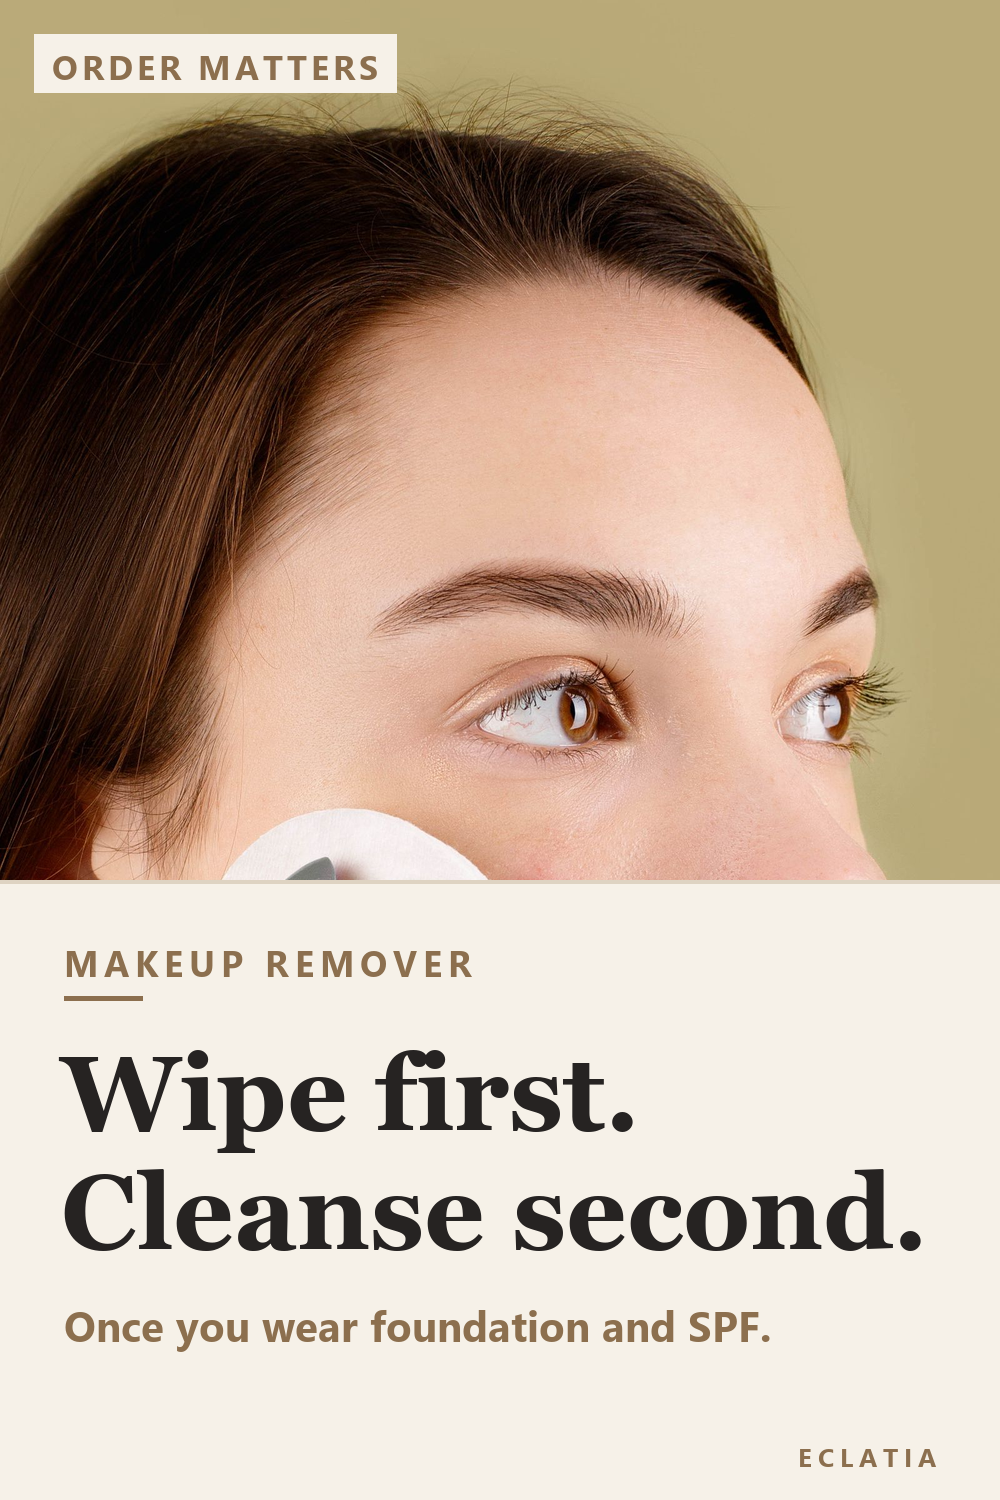
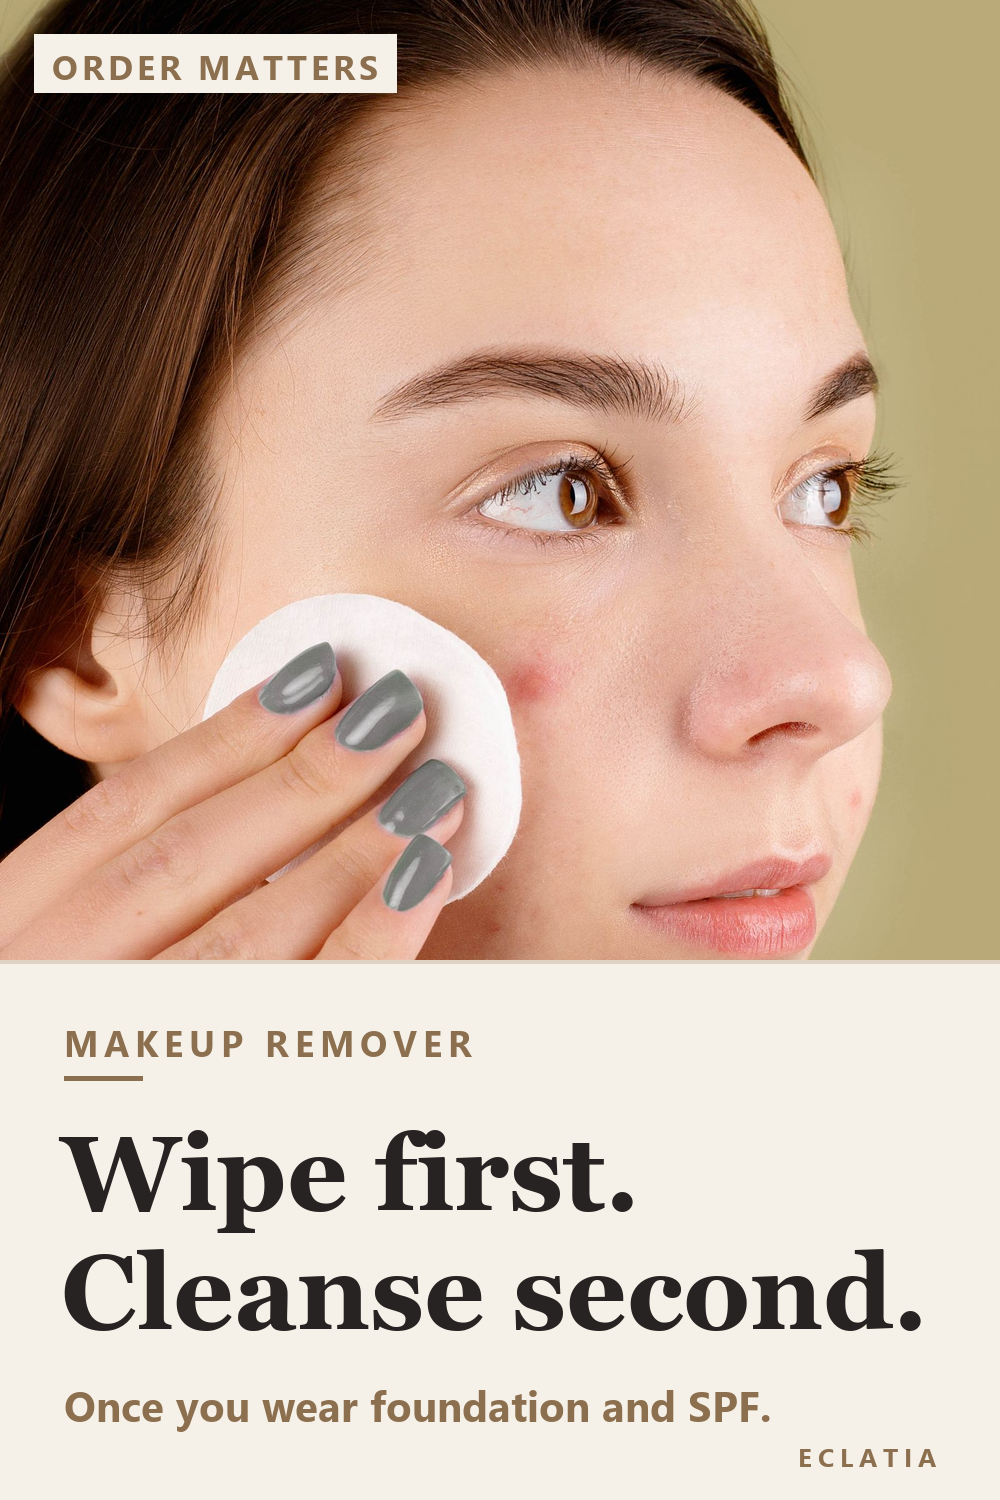
fix(P30): hauteur photo reglable, visage entier visible

diff --git a/scripts/make_pins_editorial.py b/scripts/make_pins_editorial.py
@@ -68,13 +68,14 @@ def signature(d, fill):
 
 def compose(pin):
     t = THEMES[pin["theme"]]
+    ph = pin.get("photo_h", PHOTO_H)
     im = Image.open(os.path.join(TMP, pin["src"])).convert("RGB")
 
     if "box" in pin:
         # recadrage explicite en pixels de la photo source, puis remise a l'echelle
-        photo = im.crop(pin["box"]).resize((W, PHOTO_H), Image.LANCZOS)
+        photo = im.crop(pin["box"]).resize((W, ph), Image.LANCZOS)
     else:
-        photo = crop_fill(im, W, PHOTO_H, pin.get("cx", 0.5), pin.get("cy", 0.5))
+        photo = crop_fill(im, W, ph, pin.get("cx", 0.5), pin.get("cy", 0.5))
 
     canvas = Image.new("RGB", (W, H), t["bg"])
     canvas.paste(photo, (0, 0))
@@ -82,17 +83,17 @@ def compose(pin):
 
     chip(d, (34, 34), pin["chip"], ImageFont.truetype(SEGOE_B, 34))
 
-    d.rectangle([0, PHOTO_H, W, H], fill=t["bg"])
-    d.rectangle([0, PHOTO_H, W, PHOTO_H + 3],
+    d.rectangle([0, ph, W, H], fill=t["bg"])
+    d.rectangle([0, ph, W, ph + 3],
                 fill=GOLD if pin["theme"] == "dark" else LINE)
 
     x = 64
-    spaced(d, (x, PHOTO_H + 58), pin["kicker"], ImageFont.truetype(SEGOE_B, 36), t["kicker"], 6)
+    spaced(d, (x, ph + 58), pin["kicker"], ImageFont.truetype(SEGOE_B, 36), t["kicker"], 6)
     if pin["theme"] == "creme":
-        d.rectangle([x, PHOTO_H + 116, x + 78, PHOTO_H + 120], fill=ACCENT)
+        d.rectangle([x, ph + 116, x + 78, ph + 120], fill=ACCENT)
 
     f, size = fit(t["font"], d, pin["lines"], W - 2 * x, start=140, minimum=86)
-    y = PHOTO_H + (152 if pin["theme"] == "creme" else 118)
+    y = ph + (152 if pin["theme"] == "creme" else 118)
     for line in pin["lines"]:
         d.text((x - 3, y), line, font=f, fill=t["title"])
         y += round(size * 1.12)
@@ -175,7 +176,7 @@ PINS += [
 WIPES = dict(src="pex-6476078.jpg", chip="ORDER MATTERS",
              kicker="MAKEUP REMOVER",
              lines=["Wipe first.", "Cleanse second."],
-             sub="Once you wear foundation and SPF.", cy=0.02)
+             sub="Once you wear foundation and SPF.", cy=0.42, photo_h=960)
 
 PINS.append(dict(WIPES, code="P30", theme="creme", dir="skincare"))
 

diff --git a/docs/contenus-a-valider/pins/P30-makeup-wipes-16-11-a-publier.md b/docs/contenus-a-valider/pins/P30-makeup-wipes-16-11-a-publier.md
@@ -54,6 +54,11 @@ Photo Pexels **6476078** (licence Pexels, source versionnée : `docs/contenus-a-
 Femme au coton démaquillant sur la joue, main réelle, anatomie correcte, aucun logo. Thème **crème**
 (Georgia Bold). Titre composé à **106 px**, chip `ORDER MATTERS`, kicker `MAKEUP REMOVER`.
 
+**Cadrage (corrigé le 16/11) :** la version initiale utilisait la hauteur photo standard (880 px) et
+ne gardait que le front et les yeux — le bas du visage passait sous le panneau texte. La hauteur photo
+est désormais réglable par pin (`photo_h`) ; ici **960 px**, centrée à 42 % de la source : le visage
+est visible du front au menton, avec la main et le coton.
+
 **Point d'honnêteté :** la photo montre un **coton**, pas une lingette. Le pin parle du **geste**
 (l'ordre des deux étapes), pas du format du produit ; aucun packaging n'est suggéré. L'alt le dit
 explicitement (« a cotton pad ») pour ne pas induire en erreur. C'est la raison pour laquelle le chip
